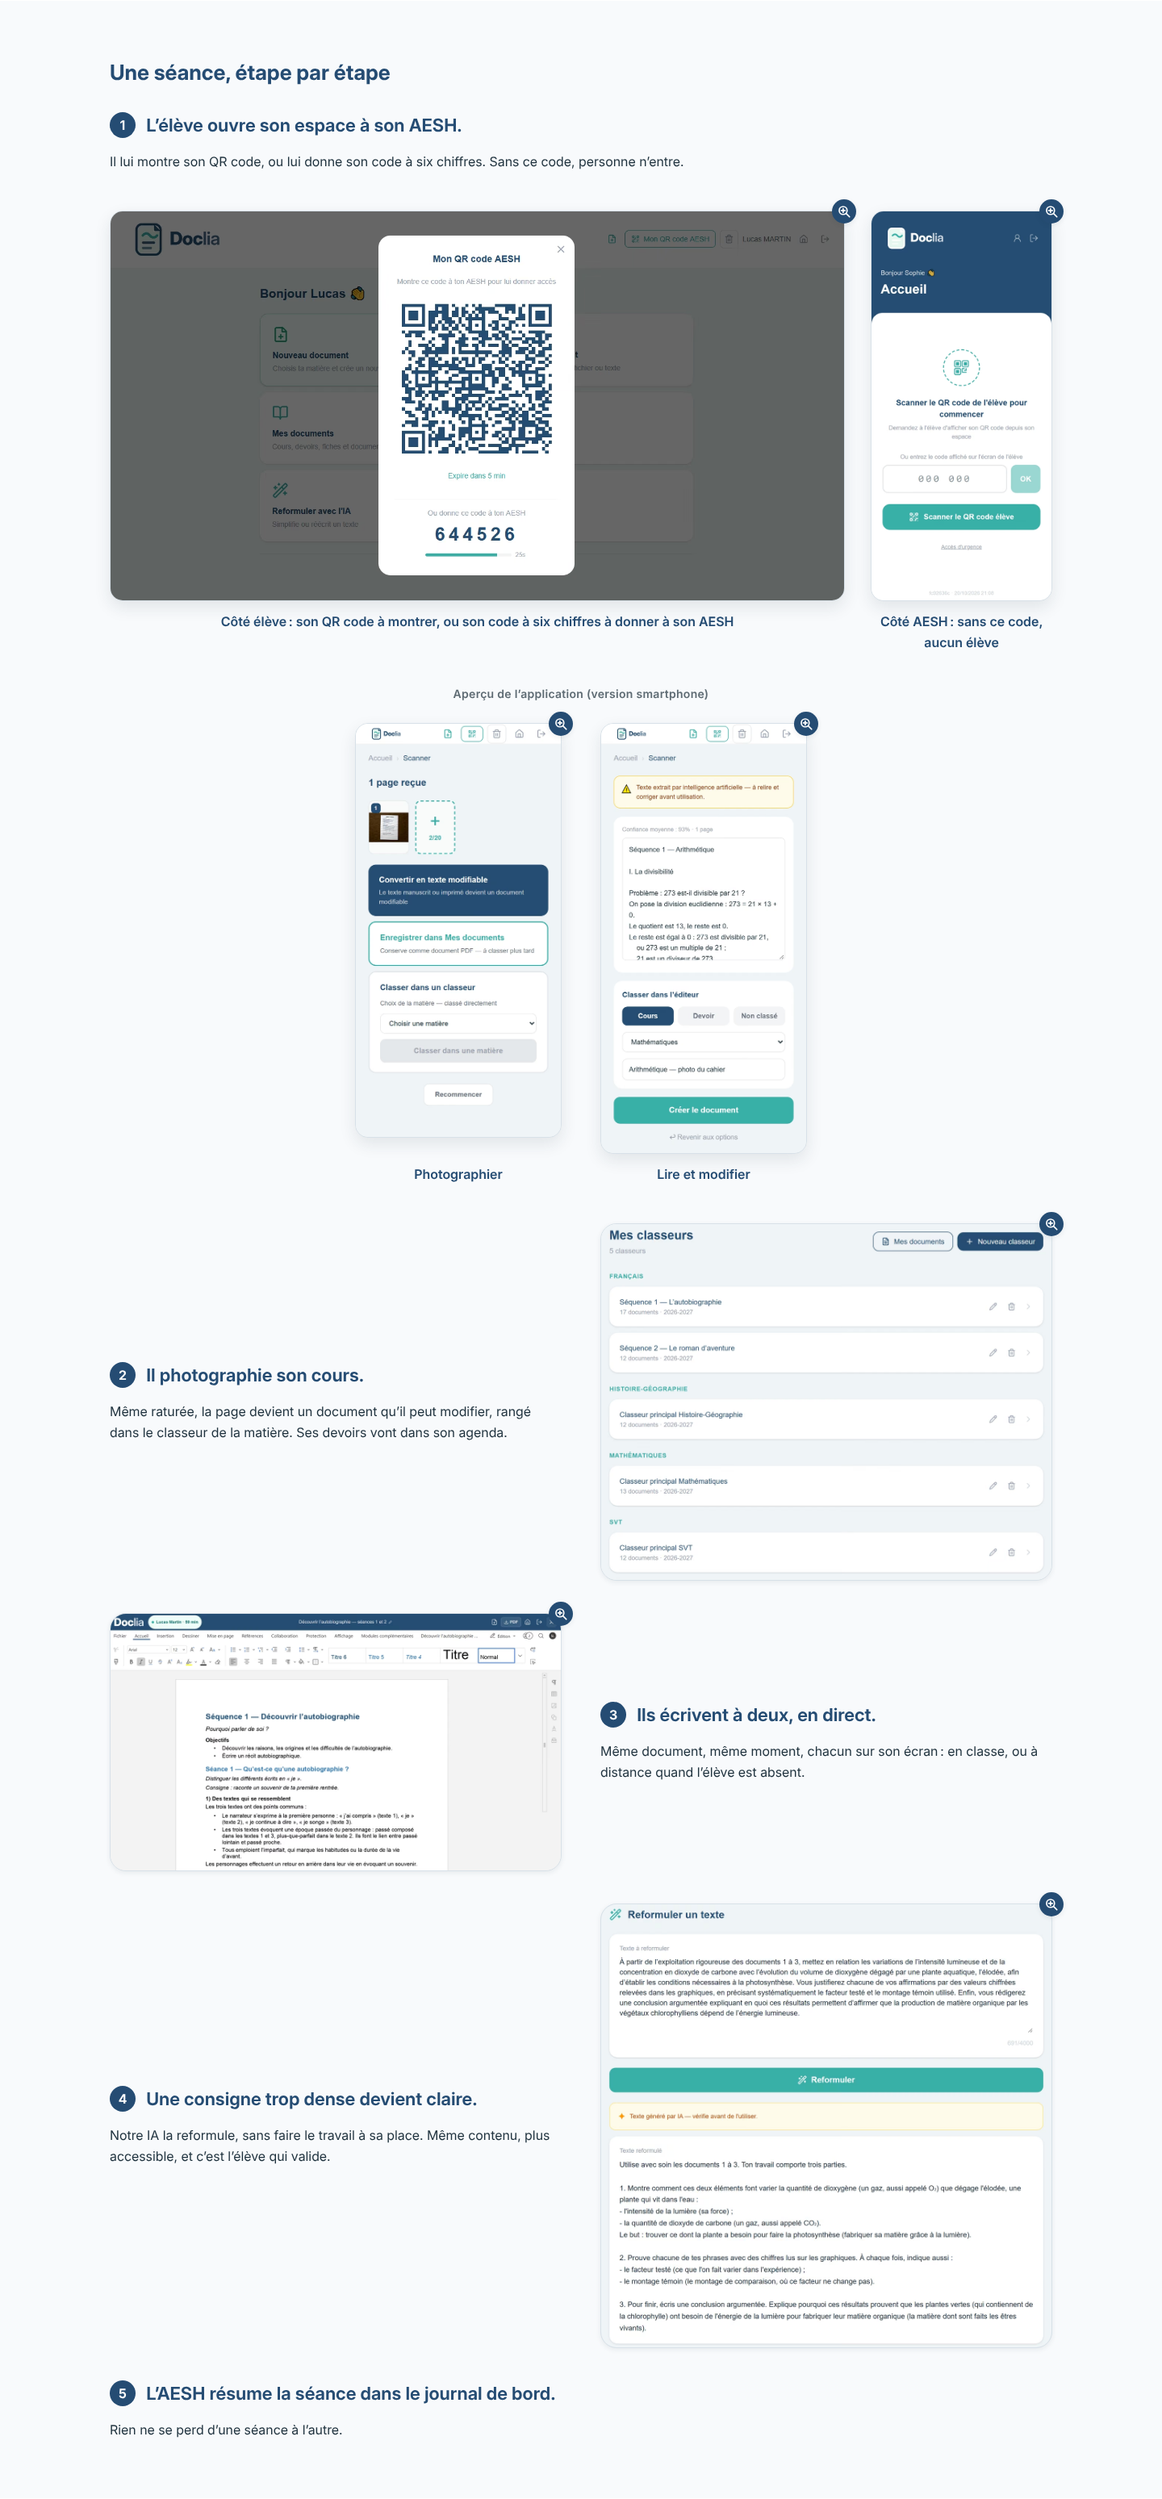
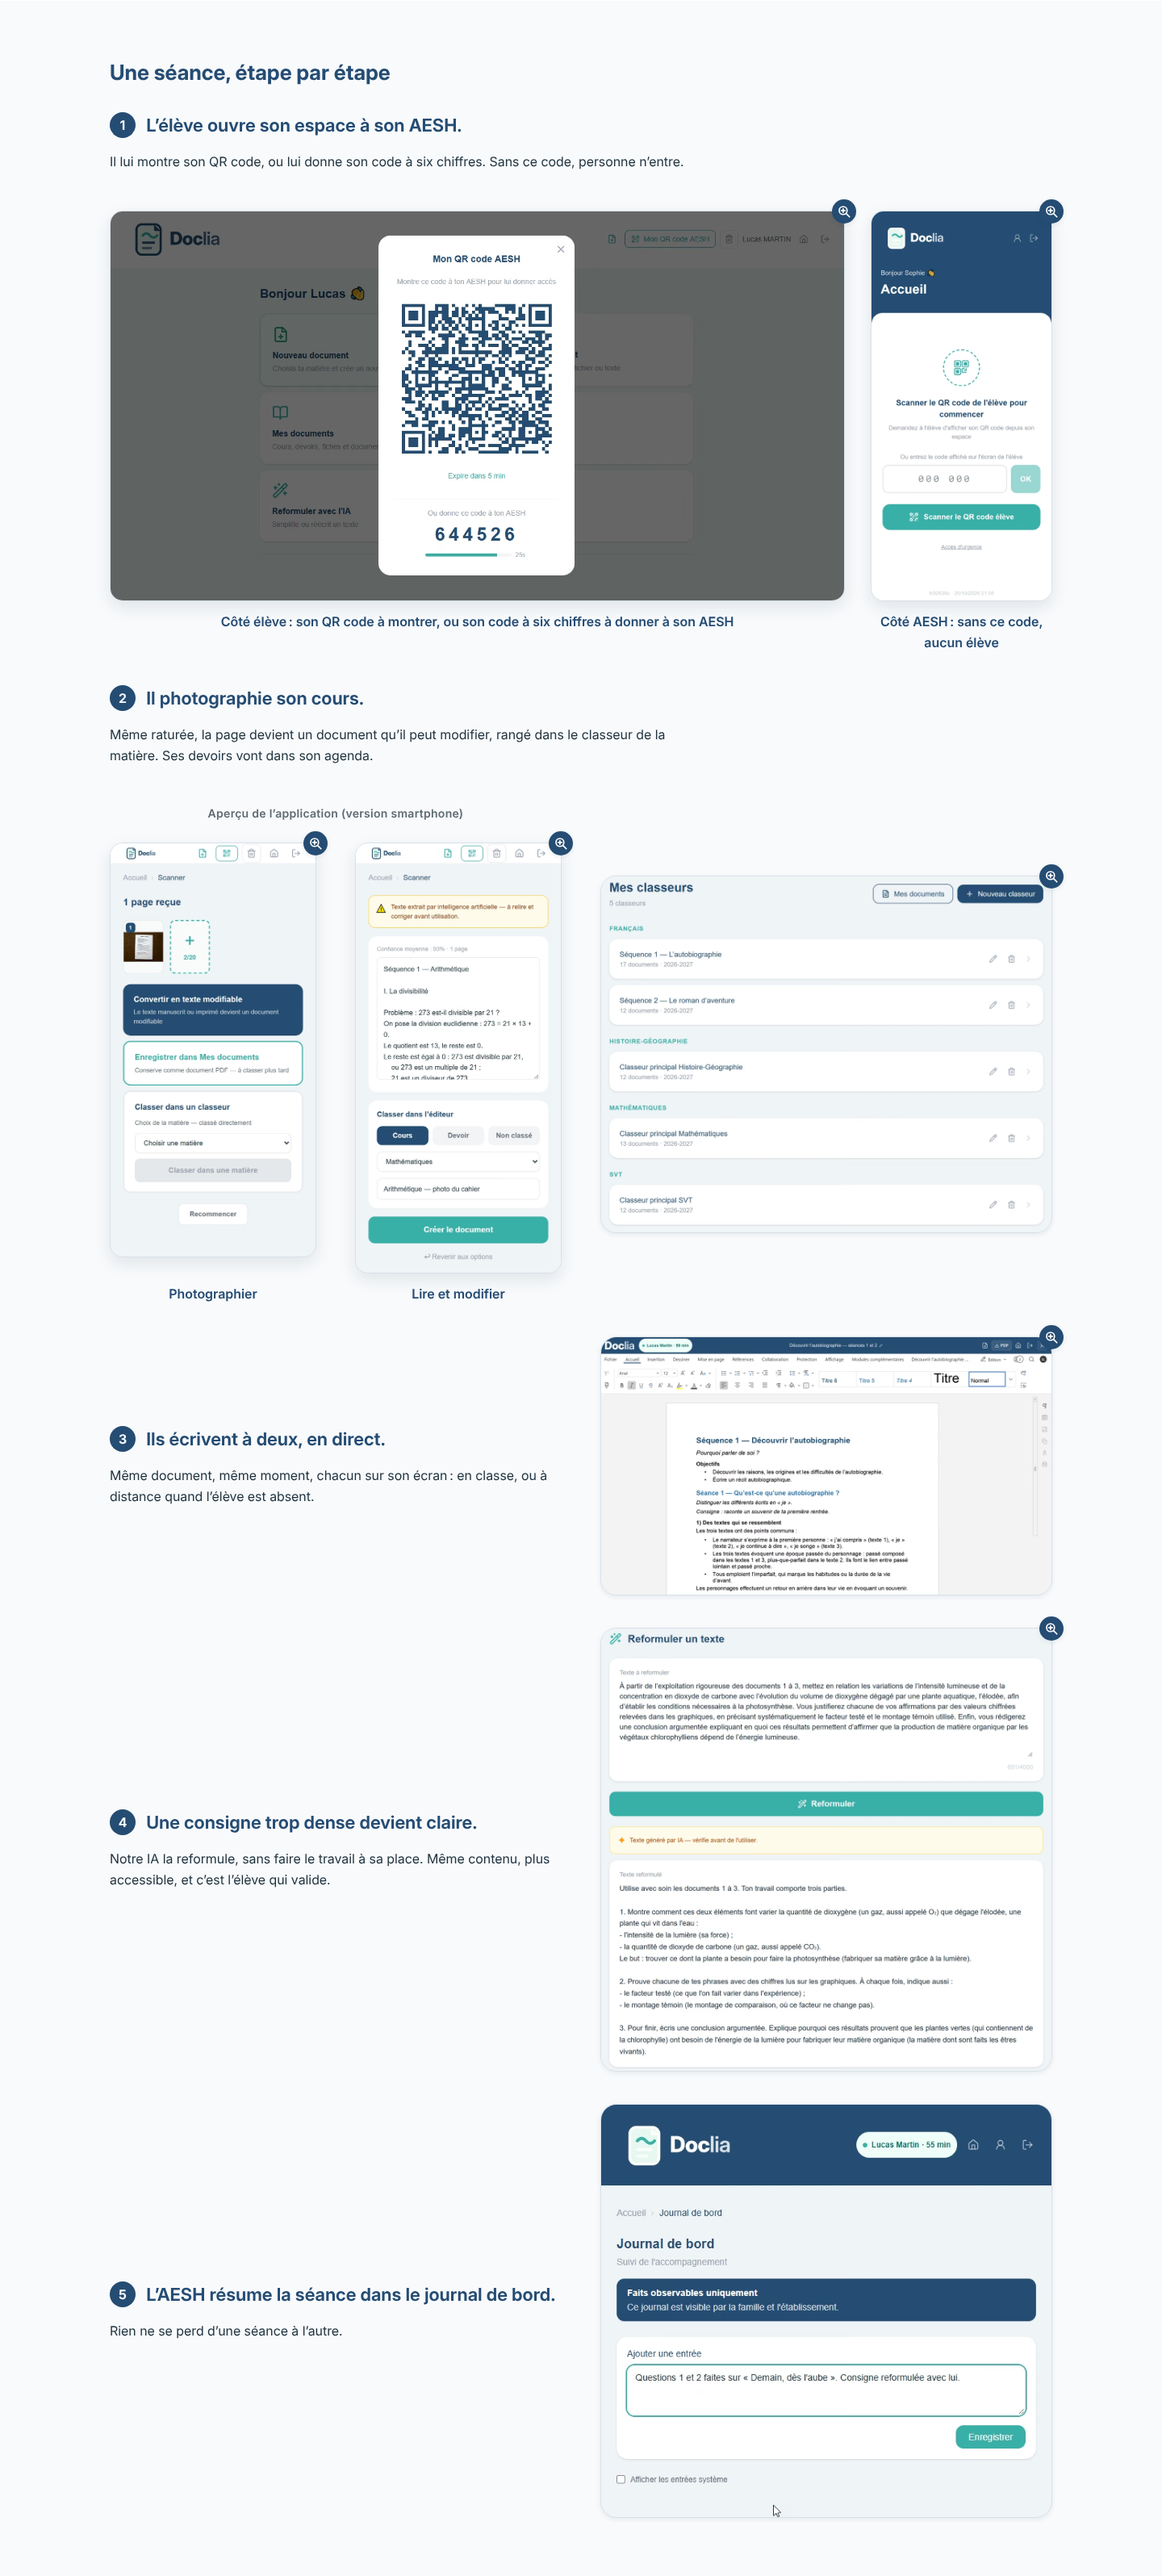
DEV-Site: accueil, correctifs du CMO (15:09, textes V1.64 ; CTO 15:20) et journal de bord (CMO 16:00, textes V1.66 ; CTO 16:02) — texte avant les visuels à chaque étape, capture du journal à l’étape 5, « Pour l’AESH : gratuit, et ça le restera. » en tête des tarifs, titre équilibré avec espaces insé
Claude-Session: https://claude.ai/code/session_01RpKnjWoS5fRHWa3MWZjy1P

diff --git a/index.html b/index.html
@@ -71,7 +71,7 @@
     <div class="container hero__grid">
       <div class="hero__text">
         <!-- Accueil V2 §1 — Accroche : titre -->
-        <h1>Il photographie son cours. Il le retrouve, le comprend, et le travaille en direct avec son AESH.</h1>
+        <h1>Il photographie son&nbsp;cours. Il le retrouve, le comprend, et le travaille en direct avec son&nbsp;AESH.</h1>
         <!-- Accueil V2 §1 — Accroche : sous-titre -->
         <p class="lead">Doclia, l’espace de travail scolaire de l’élève et de son AESH. Gratuit pour les AESH.</p>
         <!-- Accueil V2 §1 — Accroche : boutons (principal, puis secondaire vers la séance) -->
@@ -148,8 +148,15 @@
             </div>
           </div>
         </article>
-        <article class="step">
-          <div class="apercu step__prelude">
+        <article class="step step--plein">
+          <div class="step__body">
+            <!-- Accueil V2 §4.2 — titre et texte -->
+            <h3><span class="step__num">2</span> Il photographie son cours.</h3>
+            <p>Même raturée, la page devient un document qu’il peut modifier, rangé dans le classeur de la matière. Ses devoirs vont dans son agenda.</p>
+          </div>
+          <!-- Accueil V2 §4.2 — visuels après le texte (CMO 26/10 15:09, CTO 15:20) : les deux téléphones et la capture 4.1, côte à côte sur ordinateur -->
+          <div class="step__visuels">
+          <div class="apercu">
             <p class="apercu__surtitre">Aperçu de l’application (version smartphone)</p>
             <ul class="apercu__ecrans">
           <li class="apercu__ecran">
@@ -172,39 +179,39 @@
             <!-- Accueil V2 §4.2 — visuel : capture 4.1 (« Mes classeurs »), alt inchangé -->
             <a class="zoom" href="/images/capture-4-1-grand.webp"><span class="visually-hidden">Agrandir : </span><picture class="step__capture"><source srcset="/images/capture-4-1.avif" type="image/avif"><img class="media" src="/images/capture-4-1.webp" width="1200" height="948" alt="Capture de l’application Doclia : la page « Mes classeurs » d’un élève, avec des classeurs bien remplis, rangés par matière, dont deux en français." loading="lazy"></picture></a>
           </div>
-          <div class="step__body">
-            <!-- Accueil V2 §4.2 — titre et texte -->
-            <h3><span class="step__num">2</span> Il photographie son cours.</h3>
-            <p>Même raturée, la page devient un document qu’il peut modifier, rangé dans le classeur de la matière. Ses devoirs vont dans son agenda.</p>
           </div>
         </article>
         <article class="step">
-          <div class="step__media">
-            <!-- Accueil V2 §4.3 — visuel : capture 4.2 (session en direct), reprise de /aesh, même fichier et même alt -->
-            <a class="zoom" href="/images/capture-4-2-grand.webp"><span class="visually-hidden">Agrandir : </span><picture class="step__capture"><source srcset="/images/capture-4-2.avif" type="image/avif"><img class="media" src="/images/capture-4-2.webp" width="1200" height="684" alt="Capture de l’application Doclia : l’AESH et l’élève travaillent sur le même document pendant une session en direct." loading="lazy"></picture></a>
-          </div>
           <div class="step__body">
             <!-- Accueil V2 §4.3 — titre et texte -->
             <h3><span class="step__num">3</span> Ils écrivent à deux, en direct.</h3>
             <p>Même document, même moment, chacun sur son écran : en classe, ou à distance quand l’élève est absent.</p>
           </div>
+          <div class="step__media">
+            <!-- Accueil V2 §4.3 — visuel : capture 4.2 (session en direct), reprise de /aesh, même fichier et même alt -->
+            <a class="zoom" href="/images/capture-4-2-grand.webp"><span class="visually-hidden">Agrandir : </span><picture class="step__capture"><source srcset="/images/capture-4-2.avif" type="image/avif"><img class="media" src="/images/capture-4-2.webp" width="1200" height="684" alt="Capture de l’application Doclia : l’AESH et l’élève travaillent sur le même document pendant une session en direct." loading="lazy"></picture></a>
+          </div>
         </article>
         <article class="step">
-          <div class="step__media">
-            <!-- Accueil V2 §4.4 — visuel : capture 4.3 (consigne de SVT avant / après), alt inchangé -->
-            <a class="zoom" href="/images/capture-4-3-grand.webp"><span class="visually-hidden">Agrandir : </span><picture class="step__capture"><source srcset="/images/capture-4-3.avif" type="image/avif"><img class="media" src="/images/capture-4-3.webp" width="1200" height="1180" alt="Capture de l’application Doclia : une consigne de SVT dense saisie par l’élève, et sa version reformulée en trois étapes, avec le même contenu." loading="lazy"></picture></a>
-          </div>
           <div class="step__body">
             <!-- Accueil V2 §4.4 — titre et texte -->
             <h3><span class="step__num">4</span> Une consigne trop dense devient claire.</h3>
             <p>Notre IA la reformule, sans faire le travail à sa place. Même contenu, plus accessible, et c’est l’élève qui valide.</p>
           </div>
+          <div class="step__media">
+            <!-- Accueil V2 §4.4 — visuel : capture 4.3 (consigne de SVT avant / après), alt inchangé -->
+            <a class="zoom" href="/images/capture-4-3-grand.webp"><span class="visually-hidden">Agrandir : </span><picture class="step__capture"><source srcset="/images/capture-4-3.avif" type="image/avif"><img class="media" src="/images/capture-4-3.webp" width="1200" height="1180" alt="Capture de l’application Doclia : une consigne de SVT dense saisie par l’élève, et sa version reformulée en trois étapes, avec le même contenu." loading="lazy"></picture></a>
+          </div>
         </article>
-        <article class="step step--plein">
+        <article class="step">
           <div class="step__body">
-            <!-- Accueil V2 §4.5 — titre et texte (sans visuel) -->
+            <!-- Accueil V2 §4.5 — titre et texte -->
             <h3><span class="step__num">5</span> L’AESH résume la séance dans le journal de bord.</h3>
             <p>Rien ne se perd d’une séance à l’autre.</p>
+          </div>
+          <div class="step__media">
+            <!-- Accueil V2 §4.5 — visuel : capture du journal de bord (capture du CEO, 26/10, monde démo, non retouchée, bandeau compris ; métadonnées vides) ; alt : textes V1.66 (CMO 26/10 16:00, CTO 16:02). Fichier de 697 × 638 : pas de vue agrandie, elle n’apporterait rien. -->
+            <picture class="step__capture"><source srcset="/images/journal-bord.avif" type="image/avif"><img class="media" src="/images/journal-bord.webp" width="697" height="638" alt="Capture de l’application Doclia : le journal de bord, où l’AESH note ce qui a été fait pendant la séance." loading="lazy"></picture>
           </div>
         </article>
       </div>
@@ -262,6 +269,8 @@
         </article>
       </div>
       <ul class="price-notes">
+        <!-- Textes V1.64 (CMO 26/10 15:09) : la gratuité pour l’AESH, en premier -->
+        <li>Pour l’AESH : gratuit, et ça le restera.</li>
         <!-- Accueil V2 §6 — deux lignes sous les offres (la mention TVA est à retirer quand la franchise tombe — CFO) -->
         <li>Essai gratuit et sans engagement à l’ouverture : 7 jours sans carte bancaire, ou 30 jours avec. Élève de moins de 15 ans : avec l’accord d’un parent.</li>
         <li>TVA non applicable, article 293 B du CGI : le prix affiché est le prix payé.</li>
@@ -299,7 +308,7 @@
         <!-- Texte 3 — Le constat : chiffre 3 (légende corrigée sur la source DEPP 25.63, p. 3 ; textes V1.45) -->
         <li class="stat"><span class="stat__num">8 sur 10</span> <span class="stat__label">élèves accompagnés au collège et au lycée partagent leur AESH avec d’autres élèves (2022)</span></li>
       </ul>
-        <p class="stats__sources">Sources : DGESCO, rentrée 2025 (relevé Maire-info du 29/09/2026) ; IGAS–IGÉSR, janvier 2026 ; DEPP, note d’information 25.63.</p>
+        <p class="stats__sources">Sources : DGESCO, rentrée 2025, chiffres cités par Maire-info le 29/09/2026 ; IGAS–IGÉSR, janvier 2026 ; DEPP, note d’information 25.63.</p>
       </div>
     </div>
   </section>
@@ -361,7 +370,7 @@
       <div class="faq">
         <details><summary>Doclia remplace-t-il l’AESH ?</summary><p>Non. Doclia est l’espace de travail du binôme. L’AESH reste la personne qui accompagne ; Doclia lui donne un endroit où ce travail ne se perd pas.</p></details>
         <details><summary>Mon enfant change d’AESH en cours d’année. Que se passe-t-il ?</summary><p>Rien ne se perd : l’espace appartient à l’élève. Le nouvel AESH le rejoint avec le code que l’élève lui montre.</p></details>
-        <details><summary>Qui peut voir les documents de mon enfant ?</summary><p>L’élève et sa famille, et l’AESH seulement pendant la séance que l’élève a ouverte. L’établissement ne lit jamais les documents, les cours ni le journal de l’élève.</p></details>
+        <details><summary>Qui peut voir les documents de mon enfant ?</summary><p>L’élève et sa famille, et son AESH pendant leurs séances. L’établissement ne lit jamais ses documents ni ses cours.</p></details>
         <details><summary>Faut-il un équipement particulier, ou une école équipée ?</summary><p>Non. Un téléphone avec un appareil photo suffit pour numériser les cours. Doclia fonctionne dans le navigateur, sur ordinateur, tablette ou téléphone : rien à installer. Une famille peut équiper son enfant seule, et l’AESH n’a rien à payer.</p></details>
         <details><summary>Quand Doclia ouvre-t-il ?</summary><p>Les inscrits de la liste d’attente sont invités en premier, par vagues. Vous recevez un e-mail le jour où votre accès est prêt.</p></details>
       </div>

diff --git a/etablissements.html b/etablissements.html
@@ -76,7 +76,7 @@
         <!-- Page Établissements — point 2 -->
         <li><strong>L’élève garde son espace</strong> quand l’AESH change, quand il change de classe, quand il est absent.</li>
         <!-- Page Établissements — point 3 (textes V1.25) -->
-        <li><strong>Équiper, jamais surveiller.</strong> Vous suivez l’activation de vos licences et des indicateurs agrégés. Vous ne lisez jamais les documents, les cours ni le journal des élèves.</li>
+        <li><strong>Équiper, jamais surveiller.</strong> Vous suivez l’activation de vos licences et des indicateurs agrégés. Vous ne lisez jamais les documents ni les cours des élèves.</li>
       </ul>
       <!-- Captures réelles, reprises de la page d’accueil (mêmes fichiers, mêmes alt ; verdict CMO 21/10 00:02, textes V1.36) : preuve de « Équiper, jamais surveiller ». Côté élève, la fenêtre « Mon QR code AESH » remplace le tableau de bord (capture du CEO du 26/10 10:47 ; oui du CTO 12:34 ; alt : décision du CEO du 26/10 13:50, CTO 13:50). -->
       <figure class="paire">

diff --git a/assets/css/site.css b/assets/css/site.css
@@ -688,10 +688,6 @@ main:focus {
     gap: 3rem;
   }
 
-  .step:nth-of-type(even) .step__media {
-    order: 2;
-  }
-
   /* Éléments d'une étape sur toute la largeur (paire de l'étape 1, téléphones de l'étape 2) */
   .step__prelude {
     grid-column: 1 / -1;
@@ -1707,4 +1703,23 @@ html:has(.zoom-dialog[open]) {
   color: var(--color-text-inverse);
   font-size: 1rem;
   vertical-align: 0.1em;
+}
+
+/* Étapes de la séance (CMO 26/10 15:09, CTO 15:20) : le numéro, le titre et le texte avant les visuels, sans vide ; sur ordinateur, le texte à gauche */
+.step__visuels {
+  display: grid;
+  gap: 1.5rem;
+  align-items: center;
+}
+
+@media (min-width: 51.25rem) {
+  .step__visuels {
+    grid-template-columns: 1fr 1fr;
+    gap: 3rem;
+  }
+}
+
+/* Titre de l'accroche : lignes équilibrées (CSS seul) ; les espaces insécables de « son cours » et « son AESH » restent le filet */
+.hero h1 {
+  text-wrap: balance;
 }
